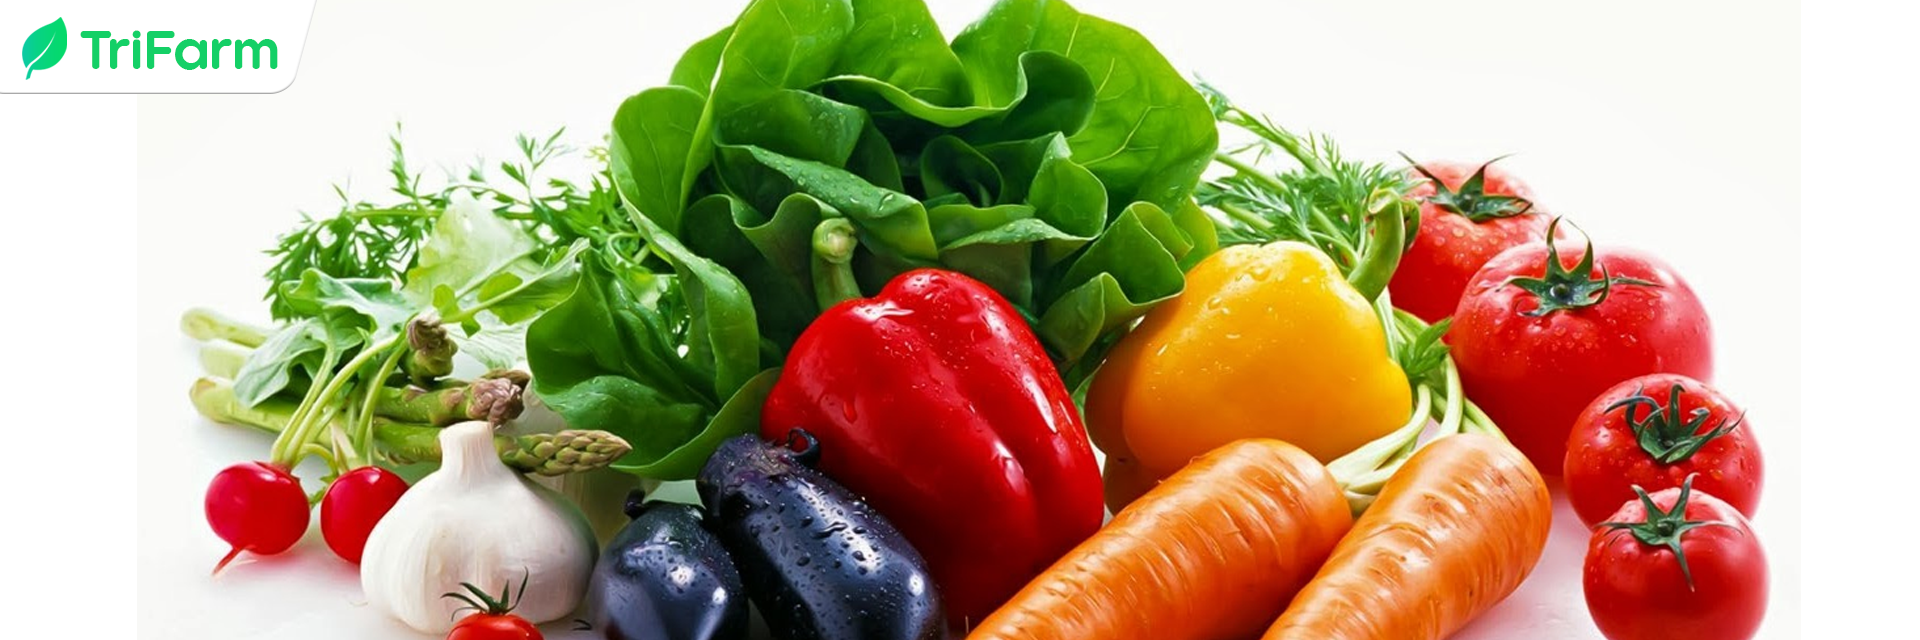
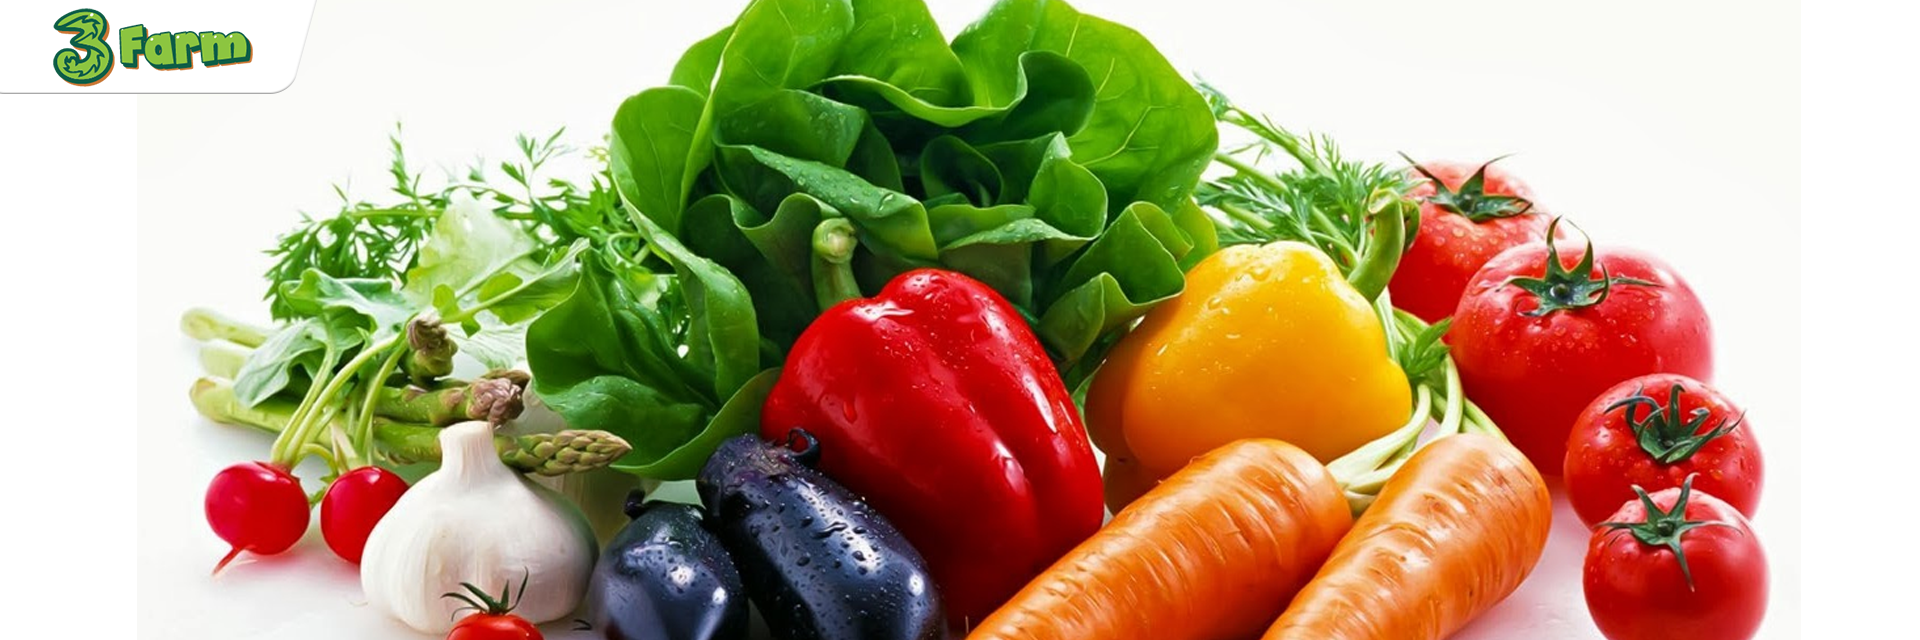
đổi ảnh

Changed region(s): [[0.0, 0.0, 0.1562, 0.1562]]

diff --git a/index.html b/index.html
@@ -15,7 +15,7 @@
     <link rel="stylesheet" href="https://cdn.jsdelivr.net/npm/bootstrap@5.2.0/dist/css/bootstrap.min.css">
     <script src="https://cdn.jsdelivr.net/npm/bootstrap@5.2.0/dist/js/bootstrap.bundle.min.js"></script>
 
-    <link rel="shortcut icon" type="image/png" href="favicon.ico">
+    <link rel="shortcut icon" type="image/png" href=".//assets/img/favicon.ico">
 
     <script src="script.js"></script>
 </head>
@@ -26,8 +26,8 @@
     <nav style="background-color: rgb(13, 104, 51); position: fixed; width: 100%; z-index: 1; top: 0; left: 0;" class="navbar navbar-expand-lg navbar-dark">
         <div class="container-fluid" style="padding: 5px var(--varpadding); background-color: rgb(13, 104, 51);">
             <a class="navbar-brand" href="#">
-                <img src="./assets/img/Logo.png" height="48px">
-                <img src="./assets/img/TriFarm Logo.png" height="24px">
+                <!-- <img src="./assets/img/Logo.png" height="48px"> -->
+                <img src="./assets/img/title.png" height="48px">
             </a>
             <button class="navbar-toggler" type="button" data-bs-toggle="collapse" data-bs-target="#navbarSupportedContent" aria-controls="navbarSupportedContent" aria-expanded="false" aria-label="Toggle navigation">
             <span class="navbar-toggler-icon"></span>
